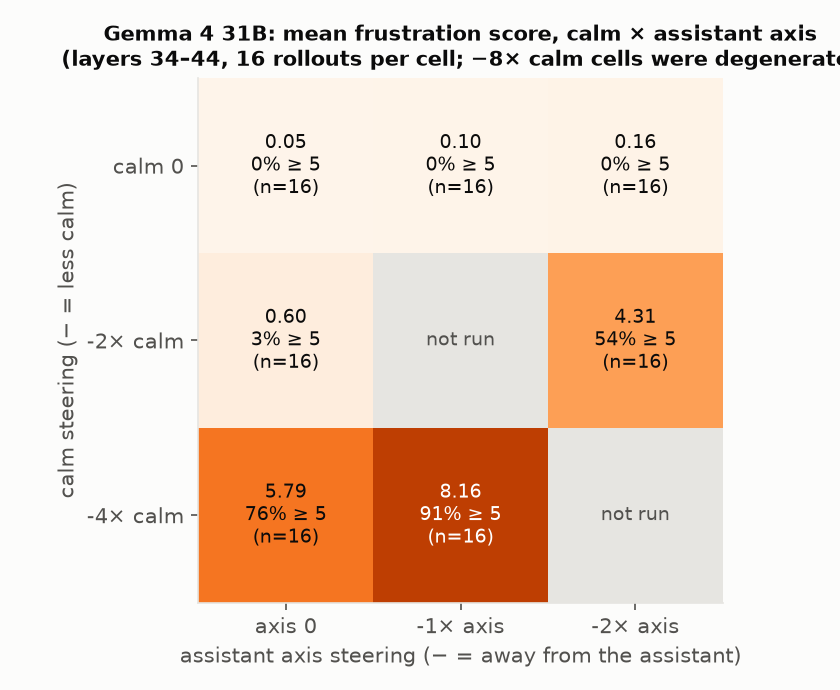
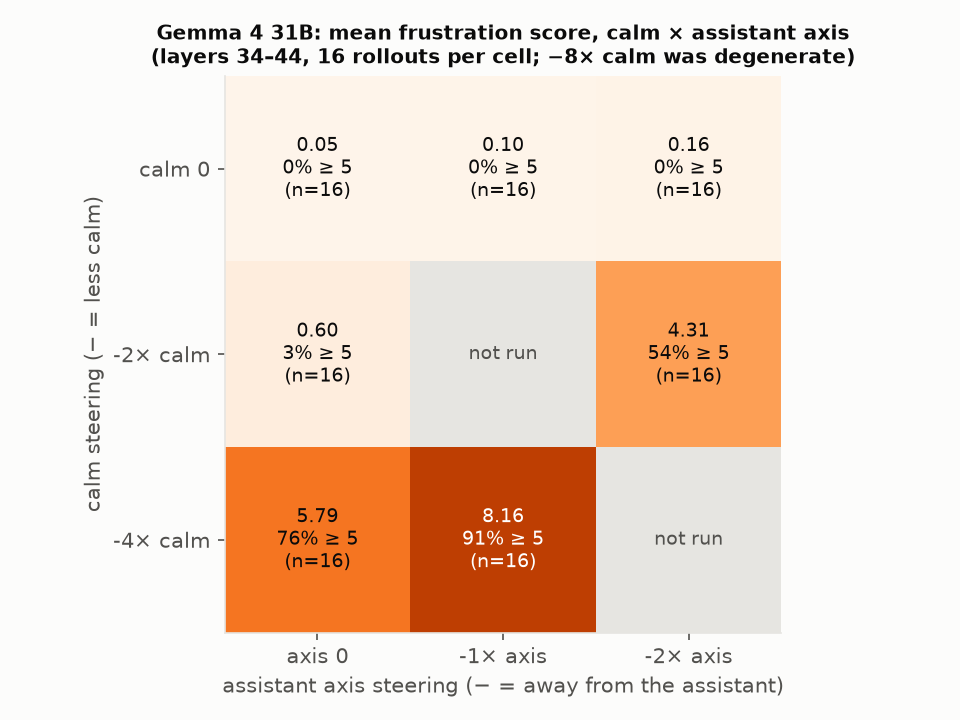
figures: fig11 title fits

diff --git a/scripts/make_figures.py b/scripts/make_figures.py
@@ -354,7 +354,7 @@ def fig11_gemma4_factorial():
         st = _cell_stats("gemma4_31b", tag)
         if st and st["n"] >= 8:
             i, j = calm_lv.index(c), axis_lv.index(a); M[i, j] = st["mean"]; N[i, j] = st["n"]; P5[i, j] = st["pct5"]
-    fig, ax = plt.subplots(figsize=(5.6, 4.6))
+    fig, ax = plt.subplots(figsize=(6.4, 4.8))
     cmap = matplotlib.colormaps["Oranges"].copy(); cmap.set_bad("#e6e5e1")
     ax.imshow(np.ma.masked_invalid(M), cmap=cmap, vmin=0, vmax=10)
     for i in range(3):
@@ -366,7 +366,7 @@ def fig11_gemma4_factorial():
             ax.text(j, i, txt, ha="center", va="center", fontsize=9, color=col)
     ax.set_xticks(range(3)); ax.set_xticklabels([f"{a:+d}× axis" if a else "axis 0" for a in axis_lv]); ax.set_yticks(range(3)); ax.set_yticklabels([f"{c:+d}× calm" if c else "calm 0" for c in calm_lv])
     ax.set_xlabel("assistant axis steering (− = away from the assistant)"); ax.set_ylabel("calm steering (− = less calm)"); ax.grid(False)
-    ax.set_title("Gemma 4 31B: mean frustration score, calm × assistant axis\n(layers 34–44, 16 rollouts per cell; −8× calm cells were degenerate)", fontsize=10)
+    ax.set_title("Gemma 4 31B: mean frustration score, calm × assistant axis\n(layers 34–44, 16 rollouts per cell; −8× calm was degenerate)", fontsize=9.5)
     _save(fig, "fig11_gemma4_factorial.png")
 
 
